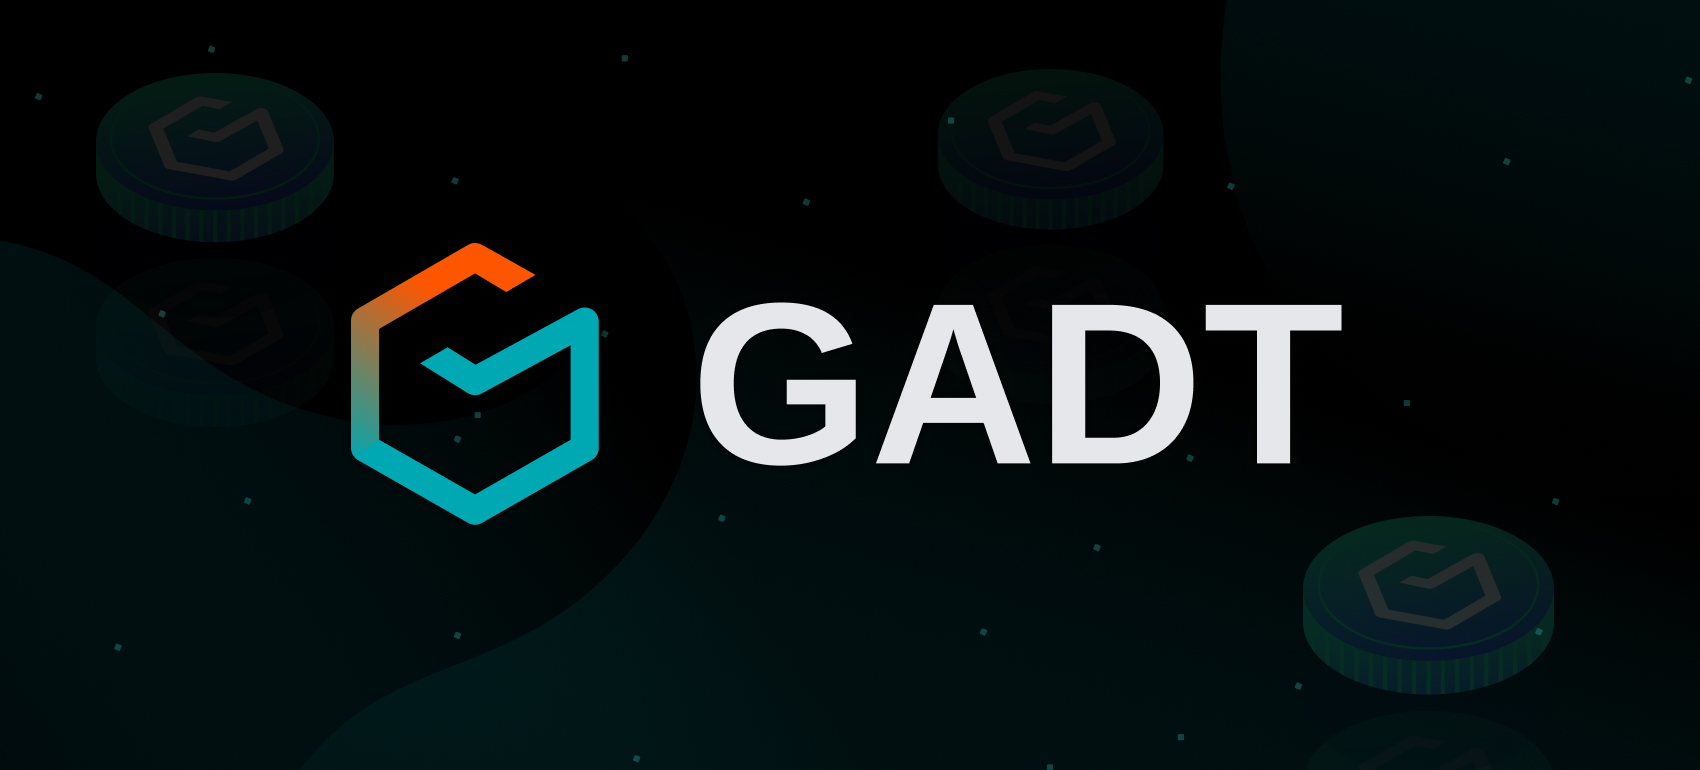
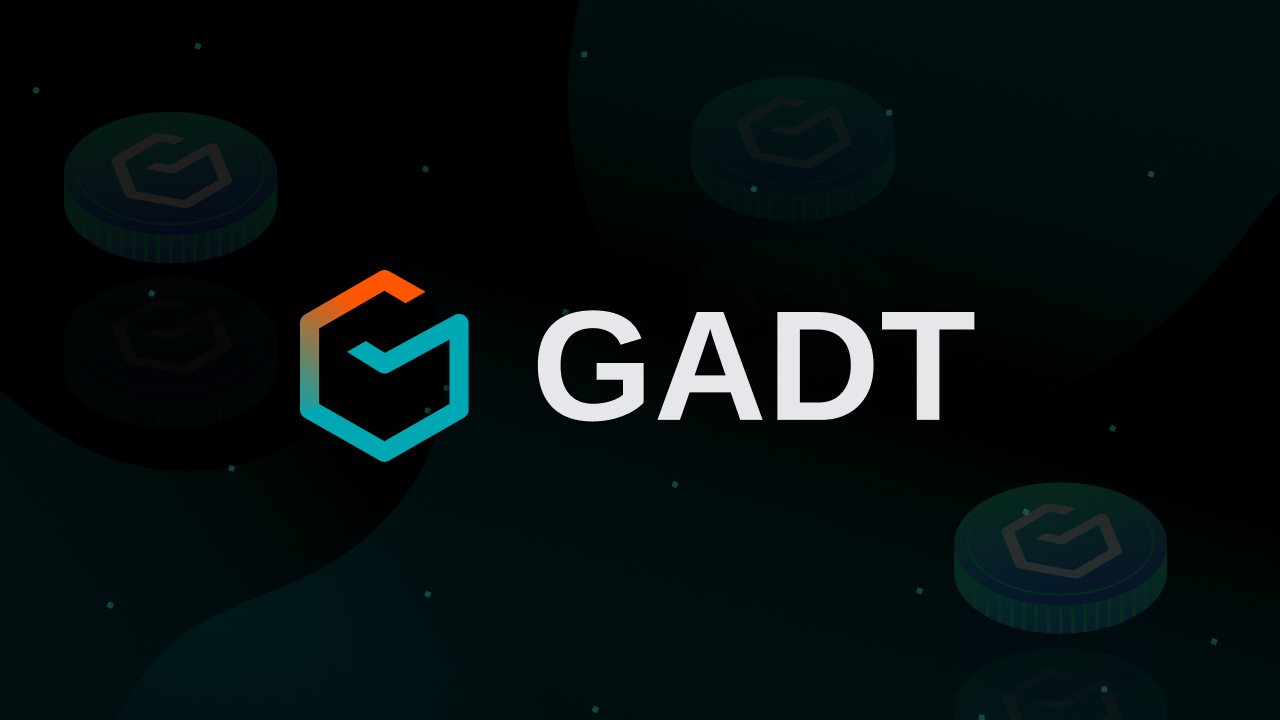
Add files via upload

diff --git a/index.html b/index.html
@@ -4,23 +4,23 @@
 	<meta charset="UTF-8">
 	<meta http-equiv="X-UA-Compatible" content="IE=edge,chrome=1">
 	<meta name="viewport" content="iwidth=device-width, initial-scale=1, viewport-fit=cover">
-
+	<title>GADT 數位娛樂點數</title>
+	<meta name="description" content="GADT 為一款運用區塊鏈技術於 Polygon 網路上打造的數位娛樂點數，致力於串聯多元區塊鏈應用及元宇宙項目。消費者可透過最值得信賴的交易平台幣託 BitoPro 進行購買，GADT 的保存及轉換過程受到保護及控管，資產保障再升級！"/>
+	<meta name="keywords" content="GADT,數位點,GASH點數,轉換平台,區塊鏈,加密貨幣,Token,Polygon,點數儲值" />
 	<meta property="og:url" content="https://gadt.io/"/>
     <meta property="og:locale" content="zh_TW" />
     <meta property="og:type" content="website" />
     <meta property="og:title" content="GADT 數位娛樂點數" />
-    <meta property="og:description" content="GADT 為一款運用區塊鏈技術於 Polygon 網路上打造的數位娛樂點數，致力於串聯多元區塊鏈應用及元宇宙項目。消費者可透過最值得信賴的交易平台幣託 BitoPro 進行購買，GADT 的保存及轉換過程受到保護及控管，資產保障再升級！"/>
 	<!-- Stage / og:image -->
-    <!-- <meta property="og:image" content="https://staging.gadt.io/img/og-img.jpg?raw=true" /> -->
+    <!-- <meta property="og:image" content="https://staging.gadt.io/img/og-img.jpg" /> -->
 	<!-- Prod / og:image -->
-	<meta property="og:image" content="https://gadt.io/img/og-img.jpg?raw=true" />
+	<meta property="og:image" content="https://gadt.io/img/og-img.jpg?t=230223" />
     <meta property="og:image:type" content="image/jpeg" />
-    <meta property="og:image:width" content="1400" />
-    <meta property="og:image:height" content="770" />
+    <meta property="og:image:width" content="1280" />
+    <meta property="og:image:height" content="720" />
 
 	<link rel="icon" type="image/png" href="img/favicon.ico">
-	<title>GADT 數位娛樂點數</title>
-	<link rel="stylesheet" href="css/styles.css">
+	<link rel="stylesheet" href="css/styles.css?t=230203v2">
 	<link href="https://unpkg.com/aos@2.3.1/dist/aos.css" rel="stylesheet">
 
 	<!-- Stage / Google Tag Manager -->
@@ -165,7 +165,7 @@
 							<i class="icon"><img src="img/ic-serve.svg"></i>
 							<div class="box">
 								<p class="title">多元轉換服務</p>
-								<p class="desc">透過與<a href="https://gashex.gashpoint.com/" target="_blank">「數位點轉換平台」</a>合作 ，使用者可以透過一個安全又便利的轉換機制將GADT轉換為GASH點數，未來將陸續推出更多數位及實體轉換服務</p>
+								<p class="desc">透過與 <a href="https://gashex.gashpoint.com/" target="_blank">數位點轉換平台</a> 合作 ，使用者可以透過一個安全又便利的轉換機制將GADT轉換為GASH點數，未來將陸續推出更多數位及實體轉換服務</p>
 							</div>
 						</li>
 						<li>
@@ -199,7 +199,7 @@
 						<li>
 							<i class="icon"><img src="img/ic-platform.svg"></i>
 							<p class="title">轉換場域</p>
-							<p class="desc">使用者可以(但不限)，持 GADT 至合作的<a href="https://gashex.gashpoint.com/" target="_blank">「數位點轉換平台」</a>進行點數轉換。轉換過程受到嚴密的安全監管</p>
+							<p class="desc">使用者可以(但不限)，持 GADT 至合作的 <a href="https://gashex.gashpoint.com/" target="_blank">數位點轉換平台</a> 進行點數轉換。轉換過程受到嚴密的安全監管</p>
 						</li>
 						<li>
 							<i class="icon"><img src="img/ic-secure.svg"></i>

diff --git a/css/styles.css b/css/styles.css
@@ -513,11 +513,12 @@ a.ghost-btn:hover {
 }
 
 .about-block .item ul li .box p.desc a {
+  color: #00A8B3;
   text-decoration: underline;
 }
 
 .about-block .item ul li .box p.desc a:hover {
-  color: #00A8B3;
+  color: #008c95;
 }
 
 @media screen and (max-width: 768px) {
@@ -638,11 +639,12 @@ a.ghost-btn:hover {
 }
 
 .assure-block .item ul li p.desc a {
+  color: #00A8B3;
   text-decoration: underline;
 }
 
 .assure-block .item ul li p.desc a:hover {
-  color: #00A8B3;
+  color: #008c95;
 }
 
 @media screen and (max-width: 768px) {

diff --git a/scss/_components.scss b/scss/_components.scss
@@ -264,9 +264,10 @@
 						color: #ccc;
 						text-shadow: 0px 0px 10px  rgba(0, 0, 0, 0.6);
 						a{
+							color: $primary;
 							text-decoration: underline;
 							&:hover{
-								color: $primary;
+								color: #008c95;
 							}
 						}
 					}
@@ -385,9 +386,10 @@
 					color: #ccc;
 					text-shadow: 0px 0px 10px  rgba(0, 0, 0, 0.6);
 					a{
+						color: $primary;
 						text-decoration: underline;
 						&:hover{
-							color: $primary;
+							color: #008c95;
 						}
 					}
 				}
